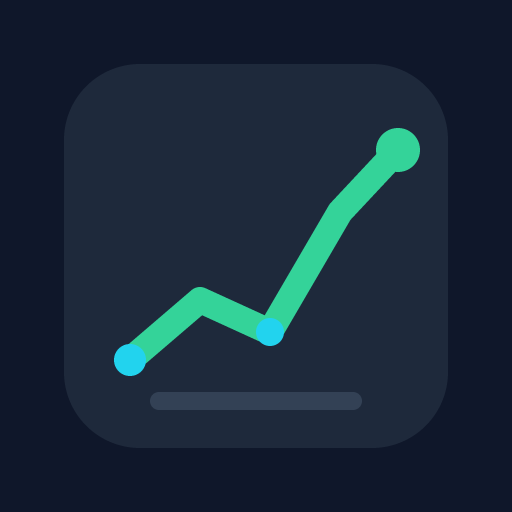
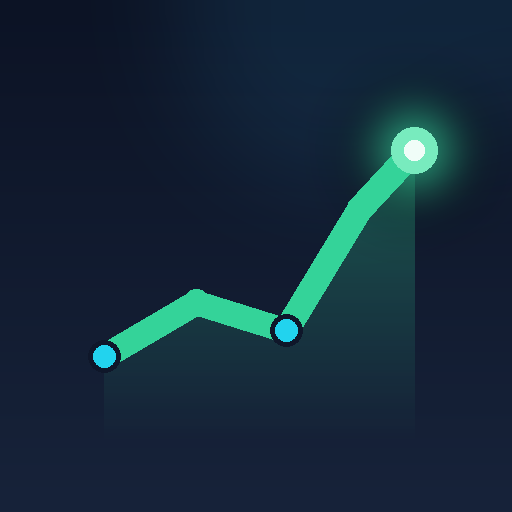
앱 아이콘 리디자인 — 세련된 상승 트렌드 마크
- 네이비 그라디언트 배경 + 상단 소프트 글로우
- 상승 라인(에메랄드) + 면적 그라디언트 채움 + 시안 노드
- 발광하는 상승 팁(글로우 + 화이트 코어)
- PNG 4종(512·192·180·32) PIL 생성(풀블리드, maskable 대응) + icon.svg(라운드) 갱신
- 파비콘/매니페스트 캐시버스터 ?v=2

diff --git a/index.html b/index.html
@@ -10,10 +10,10 @@
     <meta name="apple-mobile-web-app-capable" content="yes">
     <meta name="apple-mobile-web-app-status-bar-style" content="black-translucent">
     <meta name="apple-mobile-web-app-title" content="UMT">
-    <link rel="manifest" href="manifest.webmanifest">
-    <link rel="apple-touch-icon" href="apple-touch-icon.png">
-    <link rel="icon" type="image/png" sizes="32x32" href="favicon-32.png">
-    <link rel="icon" type="image/svg+xml" href="icon.svg">
+    <link rel="manifest" href="manifest.webmanifest?v=2">
+    <link rel="apple-touch-icon" href="apple-touch-icon.png?v=2">
+    <link rel="icon" type="image/png" sizes="32x32" href="favicon-32.png?v=2">
+    <link rel="icon" type="image/svg+xml" href="icon.svg?v=2">
     <script src="https://cdn.tailwindcss.com"></script>
     <script src="https://cdn.jsdelivr.net/npm/chart.js"></script>
     <link href="https://cdnjs.cloudflare.com/ajax/libs/font-awesome/6.4.0/css/all.min.css" rel="stylesheet">
